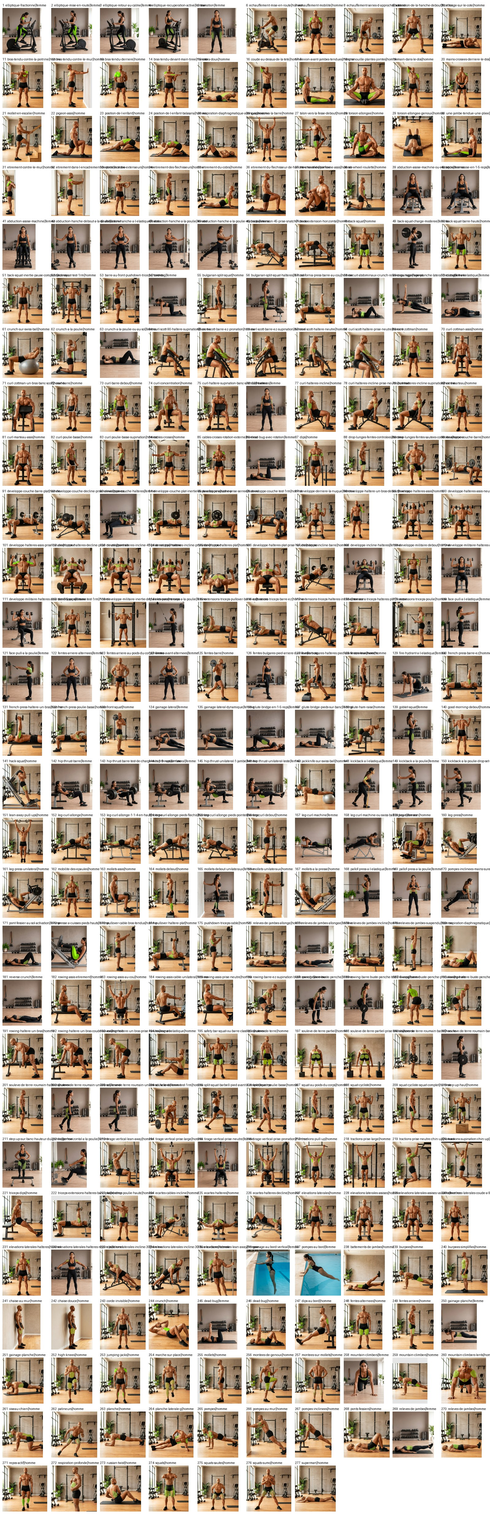
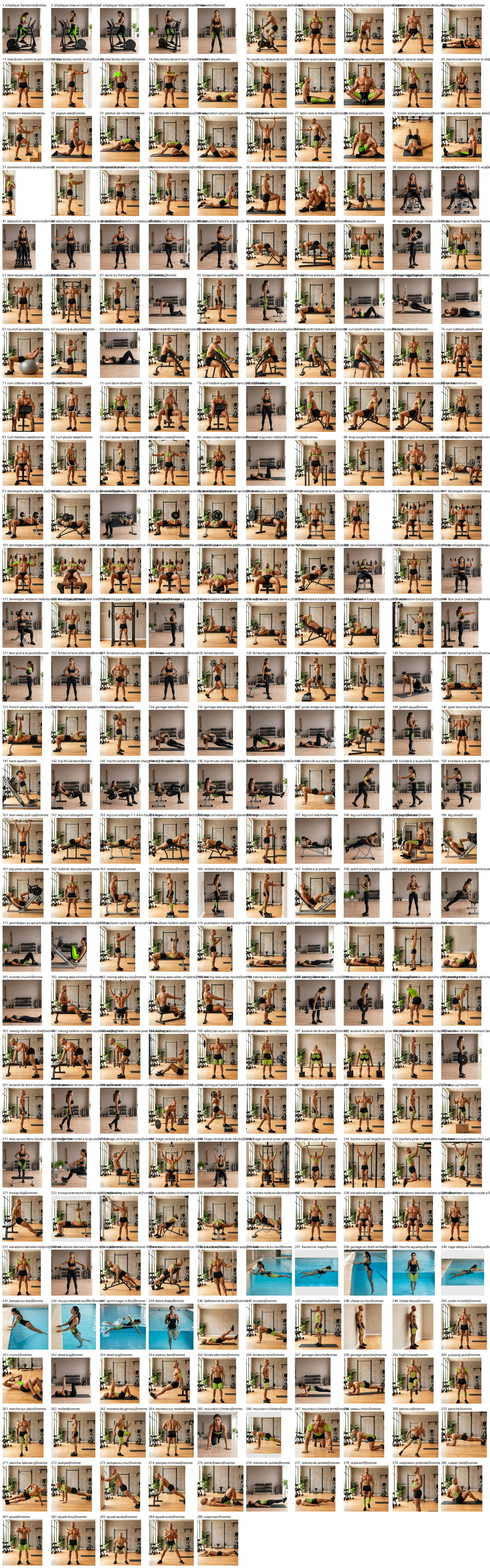
Lot 43 : squats-doux RESOLU (face ancree) + replays OK battements/marche aquatique + fractionne-nager, nage statique elastique (un seul tendu), recup-souffler, sprint, talons-fesses ; a-refaire VIDE ; TABATA SOL TERMINEE 37/37 et PISCINE GUIDES TERMINEE 9/9 ; relecture-22 3/3 ; etat 285/331, 46 rest

diff --git a/evolution/media/refonte-photo/PASSATION-NOUVEAU-CHAT.md b/evolution/media/refonte-photo/PASSATION-NOUVEAU-CHAT.md
@@ -10,18 +10,18 @@ session neuve (sans mémoire de la conversation précédente) puisse continuer s
 - Dépôt : `Yandevil974/JARVIS-Fitness-Yanis-Emilie.apk`
 - Branche de travail **obligatoire** : `arena/01a0d6f5-jarvis-fitness-yanis-emilie-ap`
   (session Arena courante ; ne jamais pousser sur `main`, ne jamais créer d'autre branche).
-- Avancement : **277 / 331 animations validées** (`production/etat.json`, clé `chiffres`).
-  Restent **54** : piscine (protocoles) 40, piscine (guides) 7, aqua tabata 6,
-  tabata au sol 1. **Musculation TERMINÉE (203/203).**
+- Avancement : **285 / 331 animations validées** (`production/etat.json`, clé `chiffres`).
+  Restent **46** : piscine (protocoles) 40, aqua tabata 6.
+  **Tabata au sol TERMINÉE (37/37), piscine guides TERMINÉE (9/9).** **Musculation TERMINÉE (203/203).**
   Terminés : **étirements 29 ✅, elliptique 5 ✅, échauffement 3 ✅**.
 - **Vérification des mouvements déjà créés (25/09)** : 70 couples relus case par case
   (`verification/VERIFICATION-2026-09-25.md`) ; 7 gestes faux trouvés parmi les livrés
   (4 refaits et acceptés au lot 17 ; 3 retirés des valides ce tour : back-squat-barre-haute,
-  back-squat-inertie-pause-complete, burpees) ; **30 couples restent à relire** (feuilles de 3,
-  247 déjà relus).
+  back-squat-inertie-pause-complete, burpees) ; **27 couples restent à relire** (feuilles de 3,
+  258 déjà relus).
   Style : 22 GIF ont une case sans vert lime (`production/style-a-reprendre.json`),
   à reprendre dans un lot dédié sans toucher aux gestes.
-- Index visuel numéroté : `review/index-general.jpg` (277 vignettes, régénéré à chaque lot).
+- Index visuel numéroté : `review/index-general.jpg` (285 vignettes, régénéré à chaque lot).
 
 ## 2. Ce que l'utilisateur a demandé (et qui ne change pas)
 
@@ -117,12 +117,12 @@ $P evolution/media/tools/refonte-sheet.py --athlete homme --out $R/gif/homme \
 
 ## 7. À faire au démarrage du nouveau chat
 
-1. **1 planche en attente** (`production/a-refaire.json`) : squats-doux (case 2 vue de dos 3/4
-   au lot 42 → lot 43 face caméra ancrée aux deux cases). Oiseau-chien RÉSOLU au lot 42
-   (membres opposés, côtés caméra imposés). 2 échecs transitoires du générateur à rejouer au
-   lot 43 : battements-au-bord et marche-aquatique (femme, piscine).
-   Tabata au sol : 36/37 au lot 42. Piscine guides : 2/9. Musculation TERMINÉE (203/203).
-   Ensuite : piscine (guides 7 + protocoles 40) et aqua tabata (6).
+1. **Aucune planche en attente** : `production/a-refaire.json` VIDE après lot 43
+   (squats-doux résolu, face caméra ancrée aux deux cases).
+   Surfaces TERMINÉES : musculation 203/203, tabata au sol 37/37, piscine guides 9/9,
+   étirements, elliptique, échauffement. Restent : protocoles piscine 40 et aqua tabata 6.
+   Lot 44 : 10 planches de protocoles piscine (féminins, milieu de bassin, reprises des
+   gestes des guides en versions EFFORT/REPOS).
    Résolus au lot 35 : tirage-vertical-prise-neutre (poignées parallèles) et mollets-unilateraux
    (pied libre croisé en l'air). Résolus au lot 34 : ab-wheel et extensions-triceps-barre-ez.
    Résolus au lot 33 : developpe-incline-halteres et tirage-vertical-prise-large.

diff --git a/CE-QUI-COINCE.md b/CE-QUI-COINCE.md
@@ -1,19 +1,19 @@
-# 🚧 Ce qui coince — état au 25 septembre 2026, après lot 42
+# 🚧 Ce qui coince — état au 25 septembre 2026, après lot 43
 
 Liste demandée pour revue de votre côté. Tout le reste du flux tourne normalement
-(**277 / 331** visuels validés, 54 restants) ; ce fichier ne contient que les points
+(**285 / 331** visuels validés, 46 restants) ; ce fichier ne contient que les points
 bloquants ou qui demandent une décision.
 
 ## 1. La planche encore refusée (je continue dessus au prochain tour)
 
-| Mouvement | Ce qui coince, mesuré | Déjà essayé | Solution prévue au prochain tour | Décision attendue de vous |
-|---|---|---|---|---|
-| **Squats doux (homme)** — 1 refus | case 1 vue de FACE, case 2 vue de DOS 3/4 : cadrage qui saute au GIF | prompt « frontal camera » simple | **lot43 : ancrer FACE caméra aux DEUX cases** (visage + poitrine visibles dans les deux cases), amplitude 45°, bras tendus devant | aucune |
+**Aucune planche refusée en attente** : `production/a-refaire.json` est VIDE après le lot 43
+(squats-doux résolu du 2ᵉ essai, face caméra ancrée aux deux cases).
 
-Clos ce tour (lot 42) : **oiseau-chien RÉSOLU** (membres opposés, côtés caméra imposés),
-ponts-fessiers, repos-actif, respiration-profonde, squats-sumo ; premiers guides piscine
-femme : gainage au bord vertical et pompes au bord. 2 échecs transitoires du générateur
-(lecture de `maitre-femme.png`) sur battements-au-bord et marche-aquatique : replay lot 43.
+Clos ce tour (lot 43) : squats-doux RÉSOLU ; replays OK des 2 échecs transitoires
+(battements-au-bord, marche-aquatique) ; fractionné-nager, nage statique à l'élastique
+(élastique UN tendu même ancre), récup-complete-souffler, sprint-nager-à-fond,
+talons-fesses — **tabata au sol TERMINÉE 37/37 et piscine guides TERMINÉE 9/9**.
+Reste : protocoles piscine 40 + aqua tabata 6.
 
 ## 2. Blocs techniques récurrents du générateur d'images (constats, pas des excuses)
 

diff --git a/evolution/media/refonte-photo/verification/VERIFICATION-2026-09-25.md b/evolution/media/refonte-photo/verification/VERIFICATION-2026-09-25.md
@@ -551,3 +551,26 @@ aqua tabata 6, tabata au sol 1). Relecture cumulative : **247 couples valides re
 Prochain lot 43 : squats-doux + battements-au-bord + marche-aquatique (replay) + 6 planches
 piscine guides (fractionne-nager, nage-statique-a-l-elastique, recup-complete-souffler,
 sprint-nager-a-fond, talons-fesses, + 1 protocole piscine).
+
+## 57. Lot 43 : squats-doux RESOLU, 8/8 acceptes, piscine guides TERMINEE (meme tour)
+
+squats-doux (2e essai) : FACE camera ancree aux deux cases, amplitude 45 deg, bras tendus
+devant, vert face des cuisses : **ACCEPT** -> a-refaire VIDE.
+Replays OK des 2 echecs transitoires du lot 42 : battements-au-bord (battement alterne,
+splash) et marche-aquatique (2 phases de pas). Acceptees aussi 5 : fractionne-nager
+(pull face a l'eau -> recovery respire), nage-statique-a-l-elastique (elastique JAUNE UN
+seul tendu, meme ancre aux deux cases, streamline -> traction), recup-complete-souffler
+(mains au bord, inspire poitrine levee -> expire relache), sprint-nager-a-fond (bras
+alternes au-dessus de l'eau, gros splash), talons-fesses (talons alternes aux fesses,
+vert ischios a travers l'eau).
+**Surface tabata au sol TERMINEE : 37/37. Surface piscine guides TERMINEE : 9/9.**
+Relecture batch 22 : 3/3 conformes (pullover-cable-bras-tendus, pullover-haltere-plat,
+pushdown-triceps-cable). Feuilles : `verification/lot43b.jpg`, `verification/lot43f-01..03.jpg`,
+`verification/relecture-22.jpg`.
+
+## 58. Couverture et suite (etat lot 43)
+
+**285 / 331 couples valides**, 46 restants (protocoles piscine 40, aqua tabata 6).
+Relecture cumulative : **258 couples valides relus**, **27 restent a relire**.
+**Aucune planche en attente** (a-refaire VIDE). Prochain lot 44 : 10 planches de
+protocoles piscine (féminines), puis aqua tabata (6).

diff --git a/PASSATION.md b/PASSATION.md
@@ -14,14 +14,14 @@ deux GIF distincts (l'un à l'homme, l'autre à la femme). L'écart inexpliqué 
 | Surface | Faits et vérifiés | Restants |
 |---|---|---|
 | Musculation | 203 | 0 ✅ |
-| Tabata au sol | 36 | 1 |
+| Tabata au sol | 37 | 0 ✅ |
 | Étirements | 29 | 0 ✅ |
-| Piscine (guides) | 2 | 7 |
+| Piscine (guides) | 9 | 0 ✅ |
 | Piscine (protocoles) | 0 | 40 |
 | Aqua Tabata | 0 | 6 |
 | Elliptique | 5 | 0 ✅ |
 | Échauffement | 3 | 0 ✅ |
-| **Total** | **277** | **54** |
+| **Total** | **285** | **46** |
 
 **25 septembre 2026 — reprise dans un nouveau chat : les mouvements déjà créés ont été
 vérifiés avant de produire.** 119 GIF livrés mesurés (`evolution/media/tools/verif-gifs.py` :
